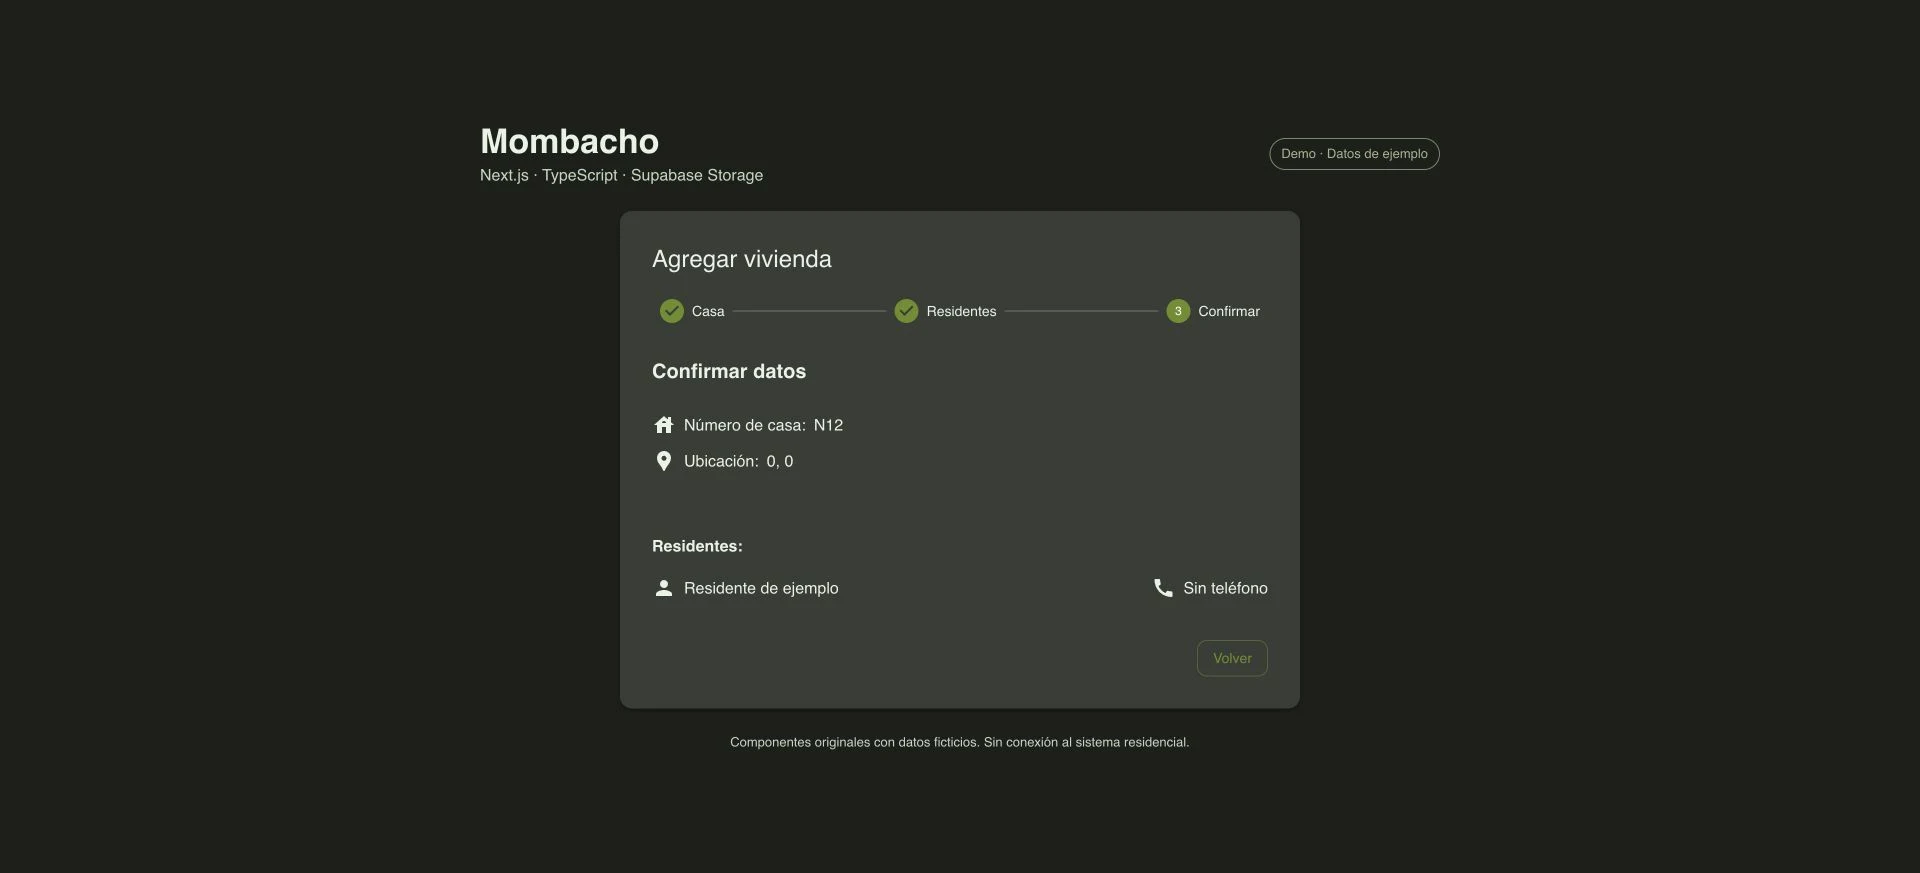
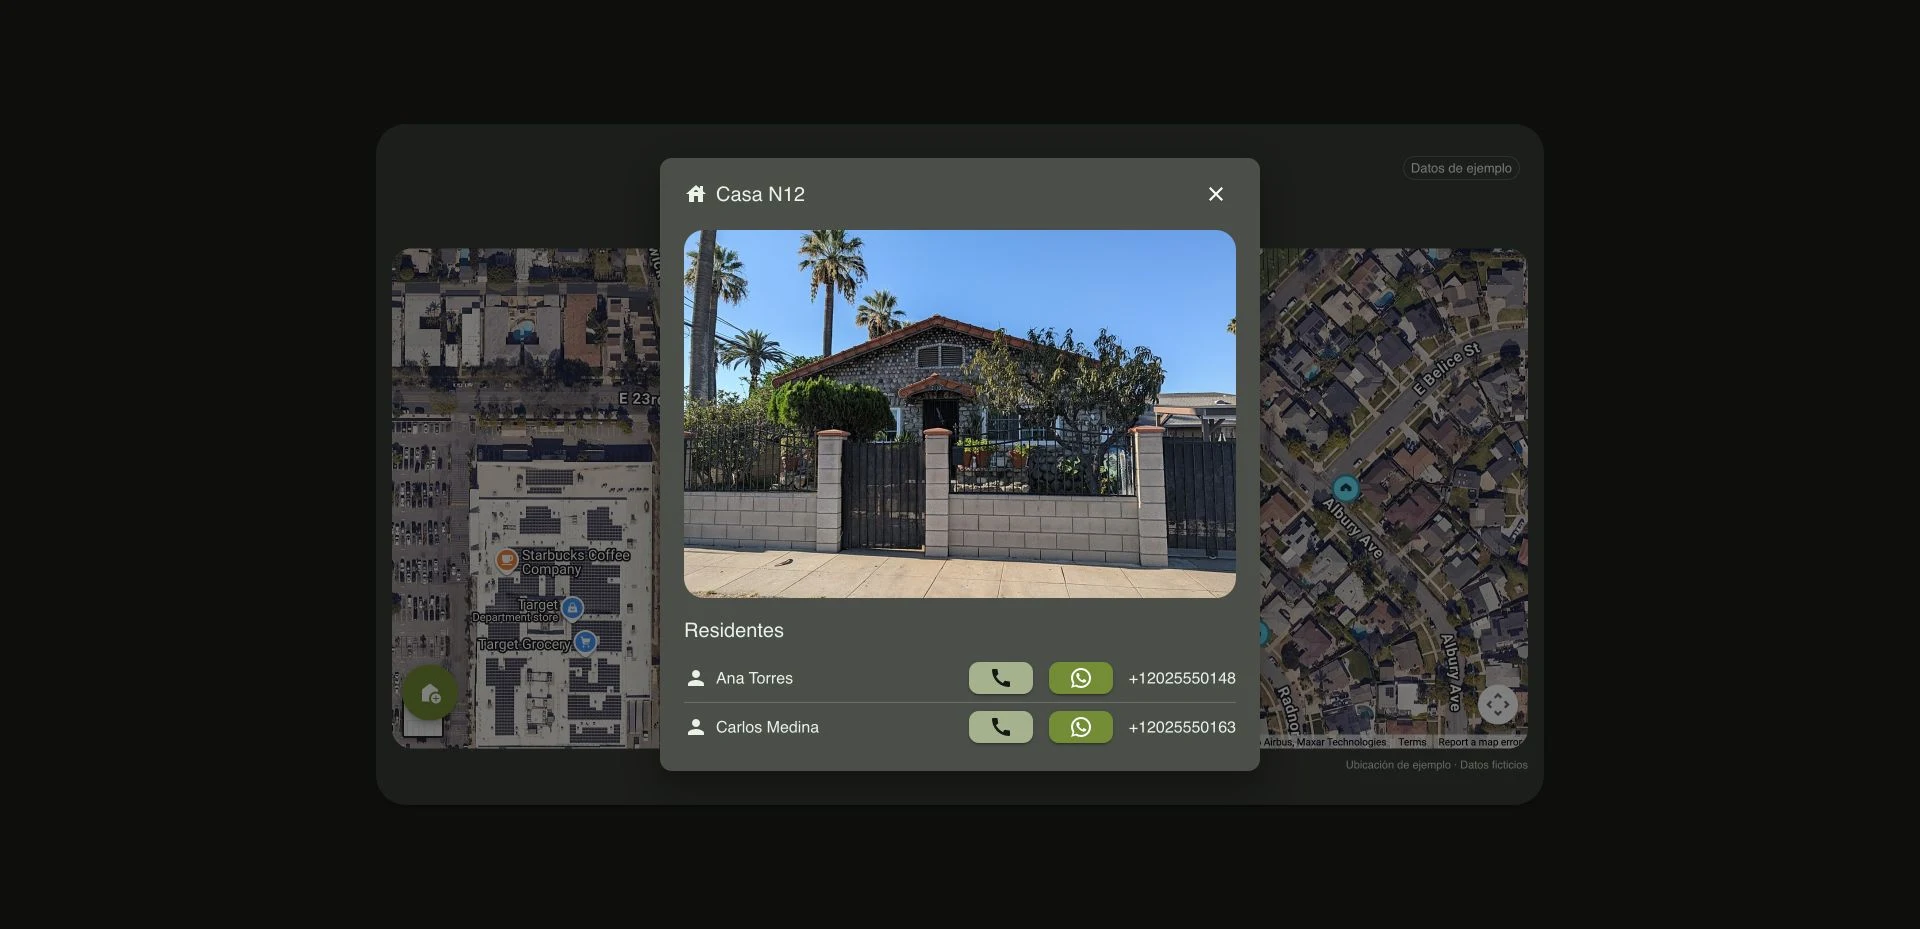
fix: show Mombacho map and house details in portfolio

Changed region(s): [[0.1875, 0.1546, 0.8125, 0.866]]

diff --git a/README.md b/README.md
@@ -107,6 +107,8 @@ Authentic captures take precedence over concepts. Conceptual artwork and demonst
 
 Private application URLs, customer records, intermediary names, personal contact details, and private repository metadata are not part of the published portfolio. DuePulse uses signed-out product captures; Shipping Portal is one anonymous shipping/tracking case. Workshop and participation records are distinguished from awards.
 
+Mombacho previews retain the application’s map markers and house-detail component with a different example location and fictional residents/contact numbers. The illustrative house photograph is [Exselsen House Exterior](https://commons.wikimedia.org/wiki/File:Exselsen_House_Exterior.jpg) by Josiah.r.white, released under CC0. Google map and imagery attribution remain visible. No residential records or credentials are included.
+
 Shipping Portal previews are localized English/Spanish renders of the original frontend with synthetic records. Only optimized images are included here, not private application source, authentication sessions, or backend access.
 
 Geist Sans and Geist Mono are self-hosted with their [SIL Open Font License](public/fonts/GEIST-OFL.txt). Local Lucide assets retain their [license](public/icons/LICENSE). Project brands and imagery are credited to their respective owners; a public repository is not permission to reuse someone else's identity or client material.
